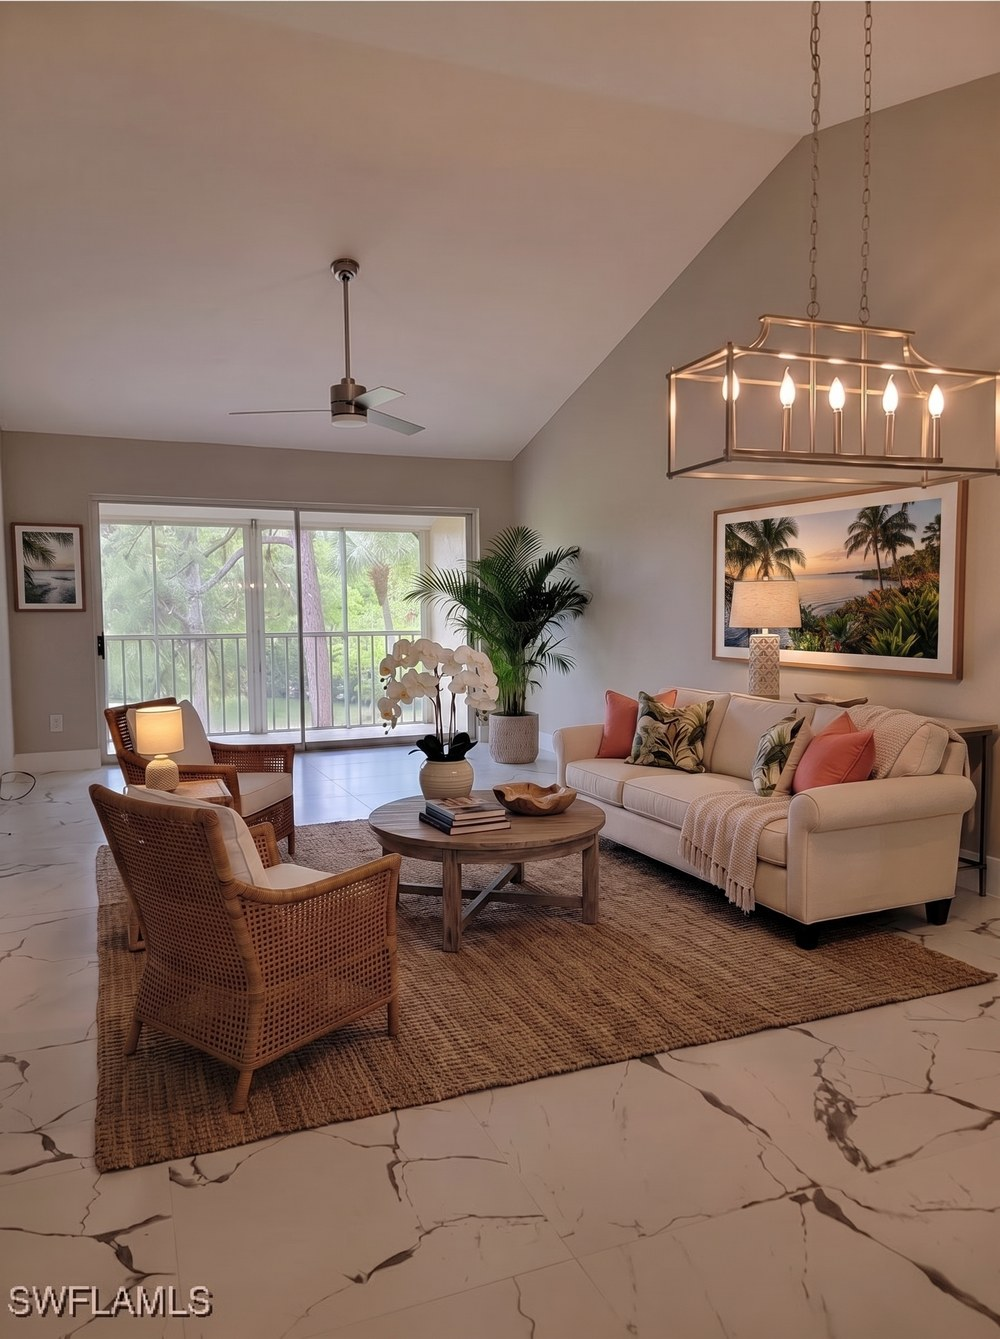
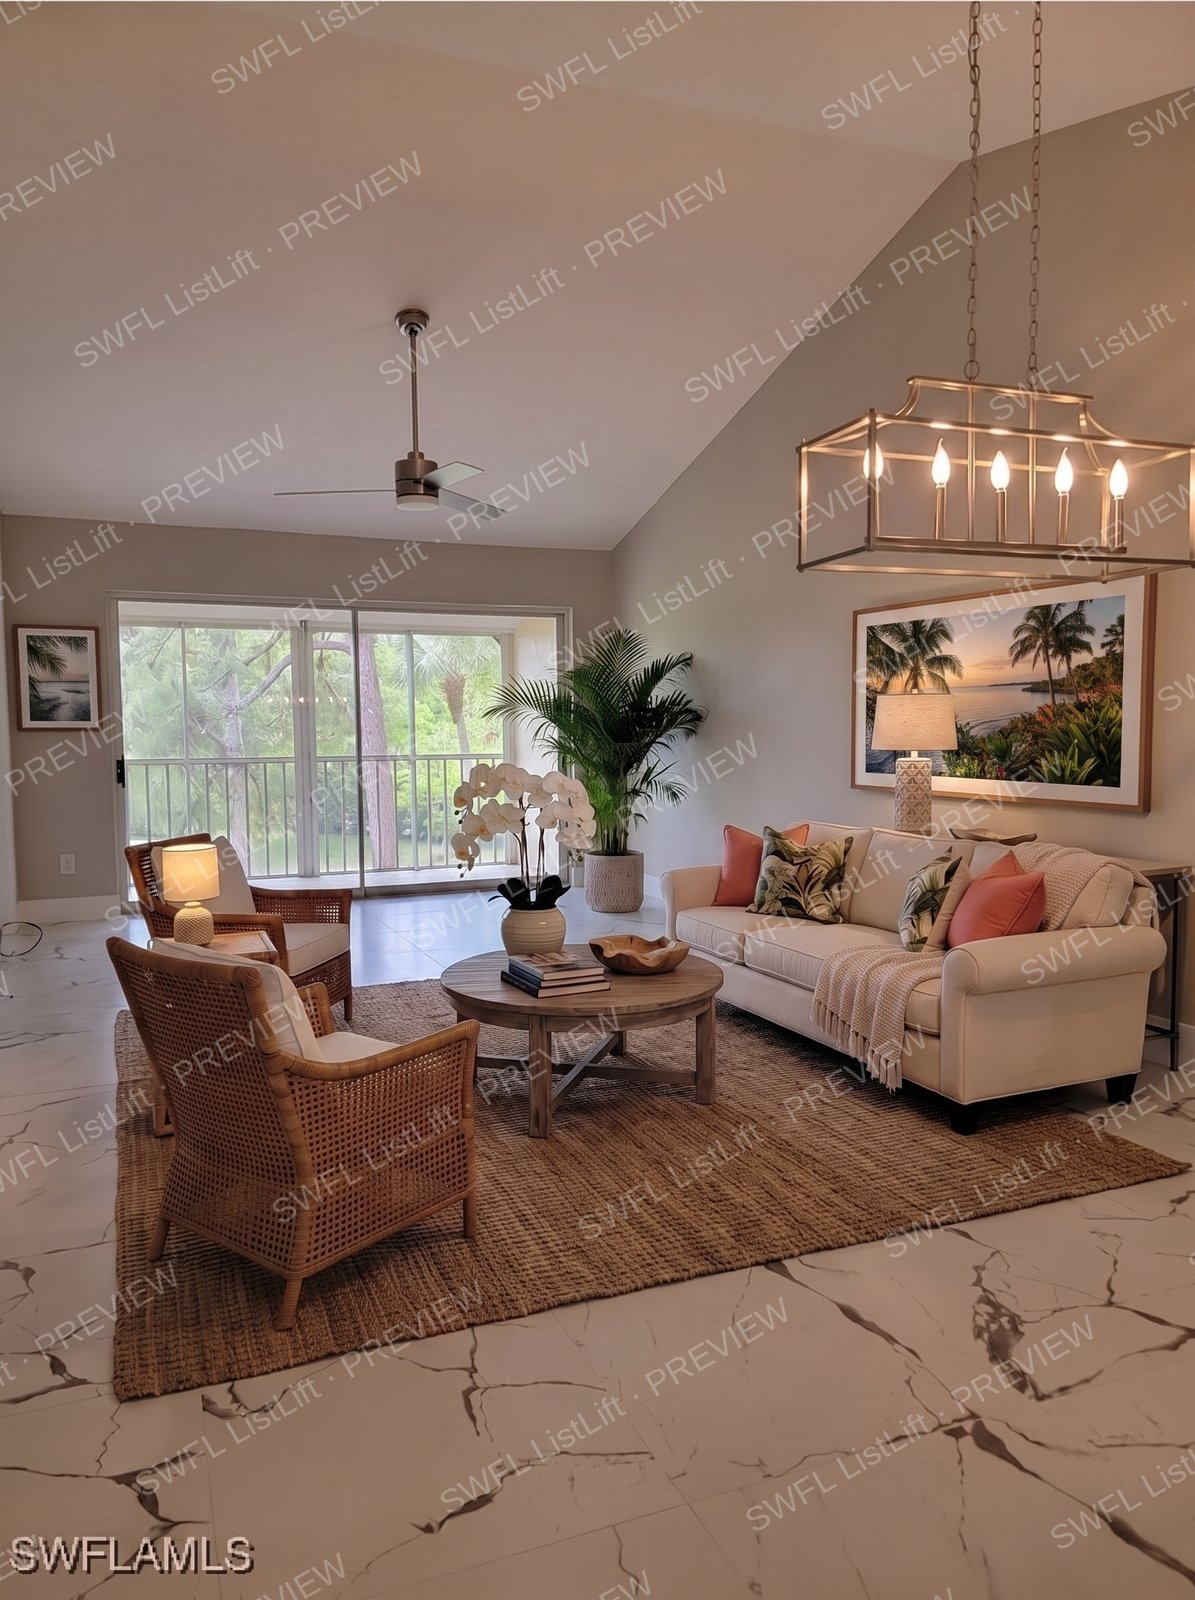
Use faint baked Landover previews and drop CSS overlay.
Swap the Warm modern and Florida cozy site JPGs for the faint-baked
outreach previews (1195x1600) and remove the .preview-wm CSS overlay so
the listing shows a single watermark instead of a double stamp.

diff --git a/l/landover-203.html b/l/landover-203.html
@@ -44,23 +44,13 @@
             </figure>
             <figure class="frame" data-frame="warm-modern">
               <div class="preview-shot">
-                <img src="/img/landover/warm-modern.jpg" alt="Warm modern virtual staging preview of the same living room" width="1000" height="1339">
-                <div class="preview-wm" aria-hidden="true">
-                  <span>SWFL ListLift · PREVIEW</span>
-                  <span>SWFL ListLift · PREVIEW</span>
-                  <span>SWFL ListLift · PREVIEW</span>
-                </div>
+                <img src="/img/landover/warm-modern.jpg" alt="Warm modern virtual staging preview of the same living room" width="1195" height="1600">
               </div>
               <figcaption>Warm modern</figcaption>
             </figure>
             <figure class="frame" data-frame="florida">
               <div class="preview-shot">
-                <img src="/img/landover/florida-cozy.jpg" alt="Florida cozy virtual staging preview of the same living room" width="1000" height="1339">
-                <div class="preview-wm" aria-hidden="true">
-                  <span>SWFL ListLift · PREVIEW</span>
-                  <span>SWFL ListLift · PREVIEW</span>
-                  <span>SWFL ListLift · PREVIEW</span>
-                </div>
+                <img src="/img/landover/florida-cozy.jpg" alt="Florida cozy virtual staging preview of the same living room" width="1195" height="1600">
               </div>
               <figcaption>Florida cozy</figcaption>
             </figure>

diff --git a/l/landover-203/index.html b/l/landover-203/index.html
@@ -44,23 +44,13 @@
             </figure>
             <figure class="frame" data-frame="warm-modern">
               <div class="preview-shot">
-                <img src="/img/landover/warm-modern.jpg" alt="Warm modern virtual staging preview of the same living room" width="1000" height="1339">
-                <div class="preview-wm" aria-hidden="true">
-                  <span>SWFL ListLift · PREVIEW</span>
-                  <span>SWFL ListLift · PREVIEW</span>
-                  <span>SWFL ListLift · PREVIEW</span>
-                </div>
+                <img src="/img/landover/warm-modern.jpg" alt="Warm modern virtual staging preview of the same living room" width="1195" height="1600">
               </div>
               <figcaption>Warm modern</figcaption>
             </figure>
             <figure class="frame" data-frame="florida">
               <div class="preview-shot">
-                <img src="/img/landover/florida-cozy.jpg" alt="Florida cozy virtual staging preview of the same living room" width="1000" height="1339">
-                <div class="preview-wm" aria-hidden="true">
-                  <span>SWFL ListLift · PREVIEW</span>
-                  <span>SWFL ListLift · PREVIEW</span>
-                  <span>SWFL ListLift · PREVIEW</span>
-                </div>
+                <img src="/img/landover/florida-cozy.jpg" alt="Florida cozy virtual staging preview of the same living room" width="1195" height="1600">
               </div>
               <figcaption>Florida cozy</figcaption>
             </figure>

diff --git a/app.js b/app.js
@@ -137,16 +137,6 @@
     return styleUrl(photo, styleKey(styleId));
   }
 
-  function previewMark() {
-    return (
-      "<div class=\"preview-wm\" aria-hidden=\"true\">" +
-      "<span>SWFL ListLift · PREVIEW</span>" +
-      "<span>SWFL ListLift · PREVIEW</span>" +
-      "<span>SWFL ListLift · PREVIEW</span>" +
-      "</div>"
-    );
-  }
-
   function photoUrl(photo) {
     return photo && photo.url ? photo.url : "";
   }
@@ -408,7 +398,6 @@
         fallback: current,
         alt: "Warm modern preview of the same " + room.toLowerCase() + " photo"
       }) +
-      previewMark() +
       "</div>" +
       "<figcaption>Warm modern</figcaption></figure>" +
       "<figure class=\"frame" + (tab === "florida" ? " is-on" : "") + "\" data-frame=\"florida\">" +
@@ -418,7 +407,6 @@
         fallback: current,
         alt: "Florida cozy preview of the same " + room.toLowerCase() + " photo"
       }) +
-      previewMark() +
       "</div>" +
       "<figcaption>Florida cozy</figcaption></figure>" +
       "</div></div>" +

diff --git a/styles.css b/styles.css
@@ -621,28 +621,6 @@ section { padding: 2rem 0; }
   position: relative;
 }
 
-.preview-wm {
-  position: absolute;
-  inset: 0;
-  overflow: hidden;
-  pointer-events: none;
-  display: flex;
-  flex-direction: column;
-  justify-content: space-evenly;
-  align-items: center;
-}
-
-.preview-wm span {
-  color: rgba(246, 241, 232, 0.55);
-  font-size: clamp(0.68rem, 1.5vw, 0.92rem);
-  font-weight: 800;
-  letter-spacing: 0.1em;
-  text-transform: uppercase;
-  white-space: nowrap;
-  transform: rotate(-28deg);
-  text-shadow: 0 1px 2px rgba(26, 23, 20, 0.28);
-}
-
 .listing-gallery {
   display: grid;
   grid-template-columns: repeat(3, 1fr);
